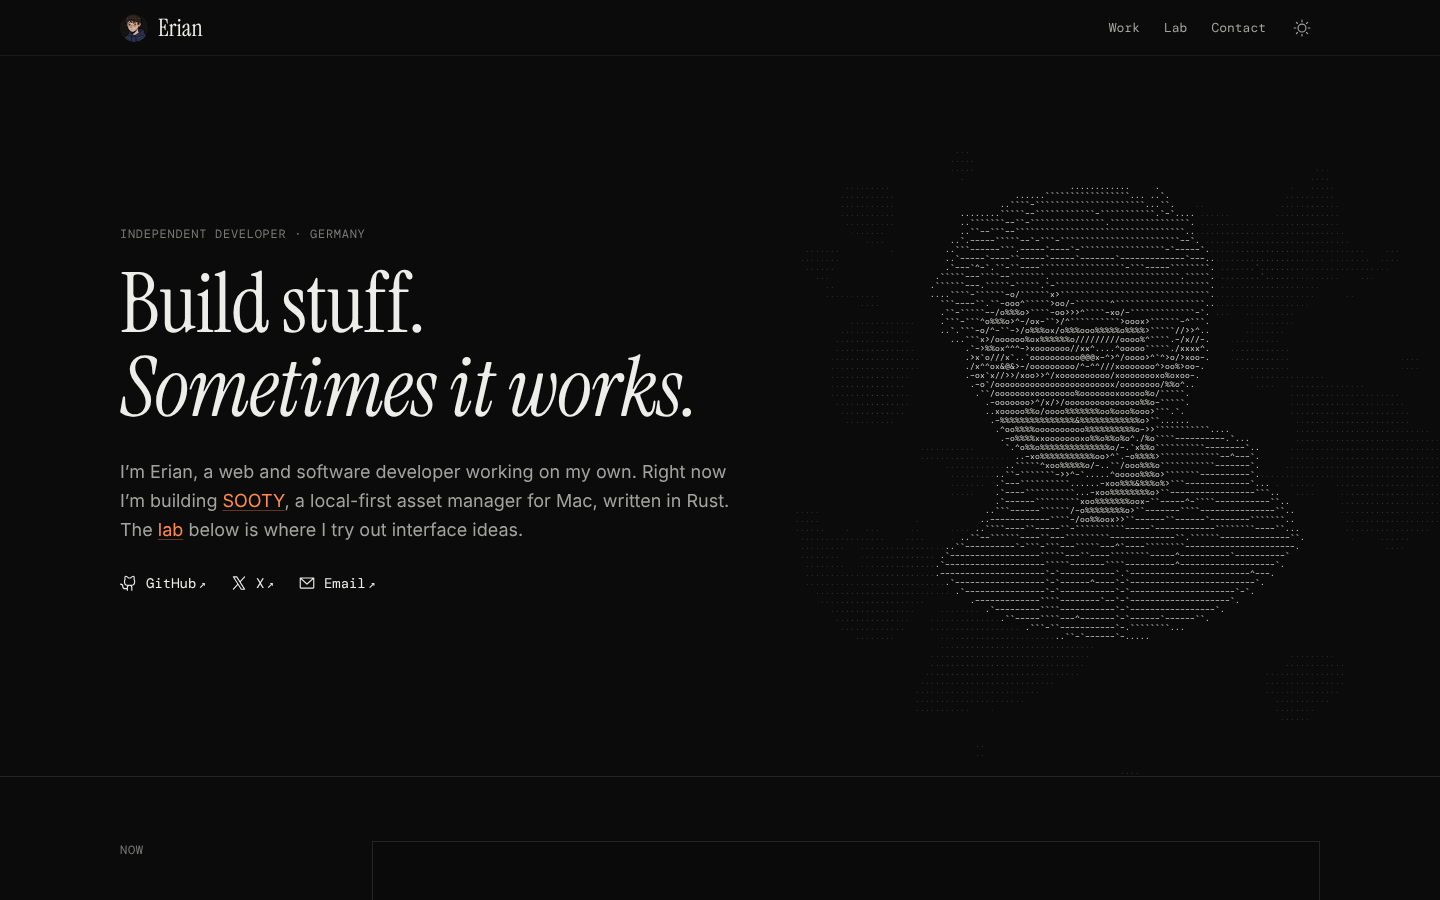
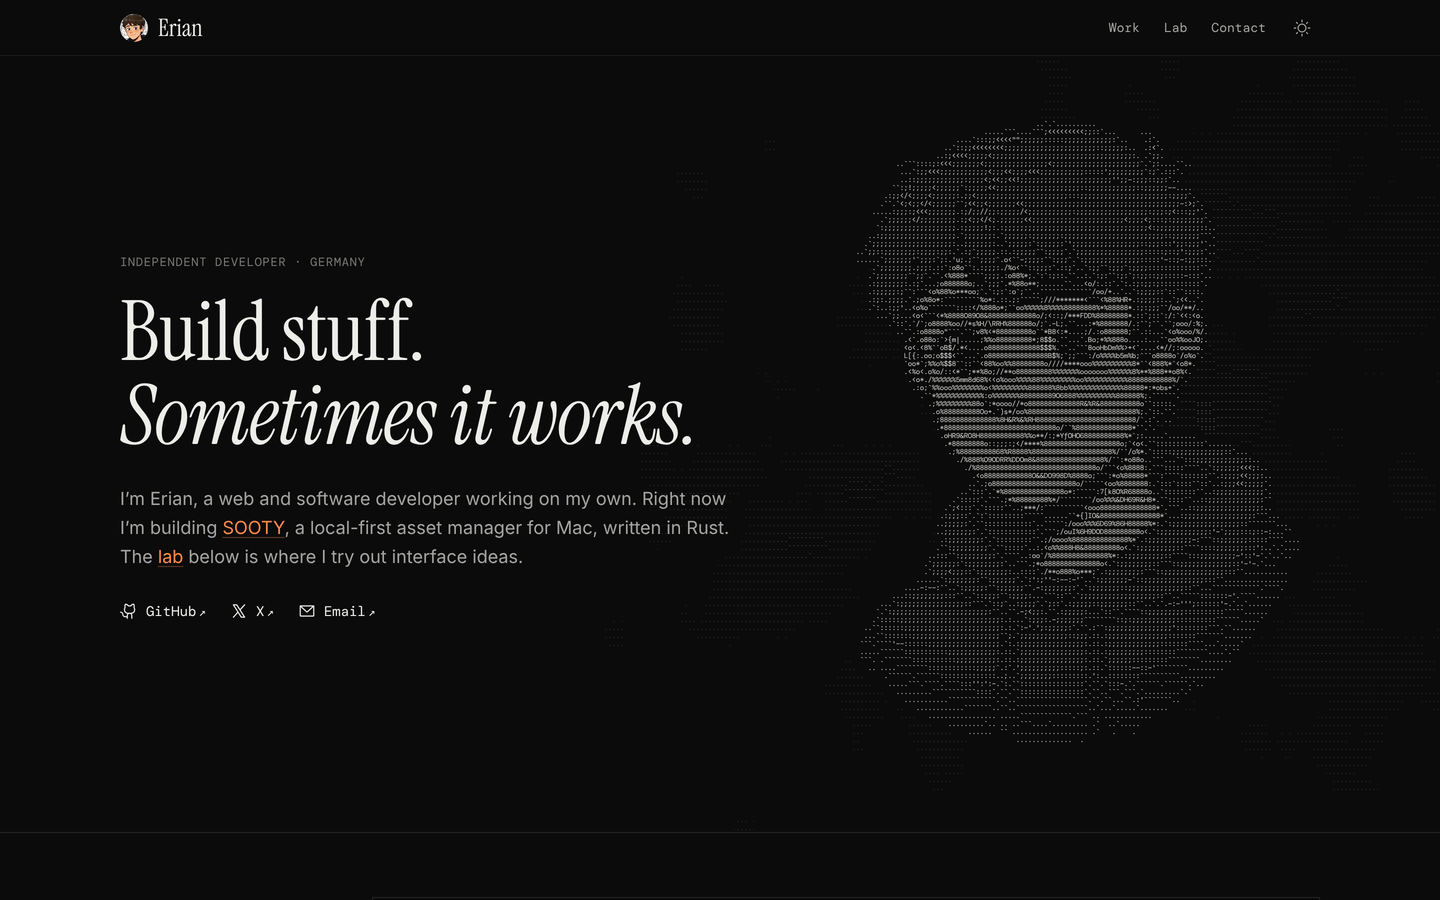
docs(repo): README 写上新头像怎么生成、字怎么跳
加上 tools/portrait.py 的用法和抠图模型的比较，字符画一节补上跳字和新的开销数字，重截首页图。

Claude-Session: https://claude.ai/code/session_01AtSjXM7NZFjW82AbeaRZdh

Changed region(s): [[0.5938, 0.1244, 0.9062, 0.7778], [0.0625, 0.2489, 0.5, 0.6844], [0.0625, 0.0, 0.125, 0.0622]]

diff --git a/README.md b/README.md
@@ -30,8 +30,9 @@ pnpm check      # 类型检查
 | `src/labs/<slug>/` | 一个实验一个目录：`index.md` 是标题、标签和做法说明，`Demo.tsx` 是组件，样式和图片也放这里 |
 | `src/islands/LabDemo.tsx` | 页面上唯一的 React 入口，把实验挂到舞台上 |
 | `src/scripts/ascii.ts` | 首屏的字符画 |
+| `tools/portrait.py` | 从头像插画生成字符画用的图、小头像和 favicon（见「字符画」） |
 | `src/styles/global.css` | 配色、字体、几个到处用的类；各组件的样式写在组件自己的 `<style>` 里 |
-| `src/assets/` | 头像、项目图标这些要经过 Astro 压缩的图 |
+| `src/assets/` | 头像（`avatar.webp` 顶栏和项目列表用，`portrait.webp` 字符画用）、项目图标这些要经过 Astro 压缩的图 |
 | `public/` | 原样发布的文件：字体、favicon、分享卡片 `og.png`、`CNAME` |
 
 ## 加一个实验
@@ -70,15 +71,22 @@ pnpm check      # 类型检查
 
 ## 字符画
 
-首屏右边的头像是用等宽字符拼出来的，四周有一圈慢慢往上飘的字符的烟。打开页面时头像从乱码里一行行显出来；鼠标划过会把字搅成橙色的乱码，松开后慢慢落回去；点一下荡开一圈。
+首屏右边的头像是用等宽字符拼出来的，四周有一圈慢慢往上飘的字符的烟。打开页面时头像从乱码里一行行显出来；之后字一直在跳：随处一小串一小串地换成别的字，一眨眼落回原样，每隔几秒还有一道波从下往上扫过去。鼠标划过会把字搅成橙色的乱码，松开后慢慢落回去；点一下荡开一圈。
 
-- 怎么画：`ascii.ts` 把头像（`src/assets/avatar.webp`，透明底）缩到「一格一个像素」，按亮度挑字。深色主题上原图越亮字越浓，浅色主题反过来，两种主题下看到的都是正片。挑哪些字是开场时量出来的：把候选的字画一遍，量每个字的墨量，由淡到浓均匀挑 14 档，所以换字体不用重新排。
-- 为什么快：canvas 2D，不用 WebGL。所有字先画进一张小图（图集），之后每格只是 `drawImage` 一小块，而且只重画变了的格子。平时（只有烟在飘、偶尔闪一下）每秒画 8 帧，开场、被鼠标搅动、点了一下时才每秒 30 帧。滚出屏幕、切到别的标签页就停；系统开了「减弱动态效果」只画一帧静止的。脚本在浏览器空闲时才挂上，不跟首屏的文字抢。无头浏览器（没有显卡）里量过：静止时脚本占主线程 3% 左右。
-- 调参数：常量都在 `ascii.ts` 开头（字号在 `Hero.astro` 的 `--ascii-size`，电脑 8px、手机 9px）。颜色是 `global.css` 的 `--ascii` 和 `--ascii-hot`。
-- 选型：看过这几个，都不合适，所以自己写（四百多行带注释，没有依赖）：
+- 头像图：`src/assets/portrait.webp` 是 `tools/portrait.py` 从头像插画（白底、背景满是小怪物的那张）生成的：先抠出人，只留亮度，把线条往外扩几个像素（字符画一格大约是原图 8 个像素，原图的线只有 5、6 个像素宽，不加粗五官就糊没了），再以脸为中心往外渐隐，肩膀和胸口淡进烟里。换头像就重跑一遍：`pip install "rembg[cpu]" scipy pillow numpy`，然后 `python3 tools/portrait.py <插画.png>`，顺带重新生成顶栏的小头像和 favicon。
+- 怎么画：`ascii.ts` 把头像缩到「一格一个像素」，按亮度挑字。深色主题上原图越亮字越浓，浅色主题反过来，两种主题下看到的都是正片；深色主题把暗处（头发、衣服）提亮一点，跟最黑的线条分得开。挑哪些字是开场时量出来的：把候选的字画一遍，量每个字的墨量，由淡到浓均匀挑 14 档，所以换字体不用重新排。
+- 字怎么跳：每一档再挑出墨量跟它差不多的一组字（字母、数字、符号都有），跳的时候只在这组里换，浓淡不变，人一直看得清。平时每秒大约 40% 的字跳一下，一次跳同一行连着的 3 到 10 格，像一段字在刷新；扫过去的那道波把字换成浓两档的，一秒以内落回来。
+- 为什么快：canvas 2D，不用 WebGL。所有字先画进一张小图（图集），之后每格只是 `drawImage` 一小块，而且只重画变了的格子。平时（烟在飘、字在跳）每秒画 8 帧，烟每帧只算一半的格子；开场、被鼠标搅动、点了一下时才每秒 30 帧。滚出屏幕、切到别的标签页就停；系统开了「减弱动态效果」只画一帧静止的。脚本在浏览器空闲时才挂上，不跟首屏的文字抢。无头浏览器（没有显卡）里量过：静止时脚本占主线程 4% 左右（字不跳的时候是 3%）。
+- 调参数：常量都在 `ascii.ts` 开头（字号在 `Hero.astro` 的 `--ascii-size`，7px）。颜色是 `global.css` 的 `--ascii` 和 `--ascii-hot`。
+- 选型：看过这几个，都不合适，所以自己写（五百行左右带注释，没有依赖）：
   - sooty.app 的字符光（React Bits 的 GradientASCII，WebGL 着色器，MIT + Commons Clause）：画的是一片流动的光，不是一张图；而且个人网站和产品官网会长得一模一样。
-  - aalib.js（2.0，MIT）：浏览器里把图片、视频转成字符，但只管「转」这一步，开场、鼠标交互、只重画变了的格子这些都还得自己写，转字符本身反而是最短的那段；2022 年以后没再更新，npm 包解开有 79 MB。
+  - aalib.js（2.0，MIT）：浏览器里把图片、视频转成字符，但只管「转」这一步，开场、跳字、鼠标交互、只重画变了的格子这些都还得自己写，转字符本身反而是最短的那段；2022 年以后没再更新，npm 包解开有 79 MB。
   - image-to-ascii（3.3，MIT）：只能在 Node 里跑（靠 GraphicsMagick），浏览器里用不了。ascii-art（2.8，MIT）是给终端用的，带 ANSI 颜色和 figlet 字体，870 KB。
+- 抠图：只在本机生成图片时用，不进网站。用 rembg（MIT）比较了它带的四个模型，同一张插画：
+  - isnet-anime（Apache-2.0，专给动漫插画训练的）：选它。人的边缘干净，帽衫、头发没有缺口；只是背景里的小怪物会留下半透明的影子，脚本把不透明度低于一半的砍掉、只留最大的一块就干净了。
+  - BiRefNet general lite（MIT）：边缘最利落，但把帽衫左肩切掉了一块。
+  - isnet-general-use（Apache-2.0）：胸前的小猫和衣服上的字母变成半透明的。
+  - u2net（Apache-2.0）：头发和肩膀四周一圈发虚的光晕。
 
 ## 选型
 
@@ -93,4 +101,4 @@ pnpm check      # 类型检查
 
 ## 分享卡片
 
-`public/og.png` 是首页首屏深色主题 1200×630 的截图（`pnpm build && pnpm preview` 以后，用 Playwright 开 1200×630 的窗口、`colorScheme: 'dark'`，等字符画显出来再截）。改了首屏要重截一张。README 开头的 `docs/home.png` 也是这样截的整页。
+`public/og.png` 是首页首屏深色主题 1200×630 的截图（`pnpm build && pnpm preview` 以后，用 Playwright 开 1200×630 的窗口、`colorScheme: 'dark'`、`deviceScaleFactor: 2`，等字符画显出来再截，再缩回 1200×630：字符画的字只有 7px，按 1 倍截会糊）。改了首屏要重截一张。README 开头的 `docs/home.png` 也是这样截的，窗口 1440×900。
